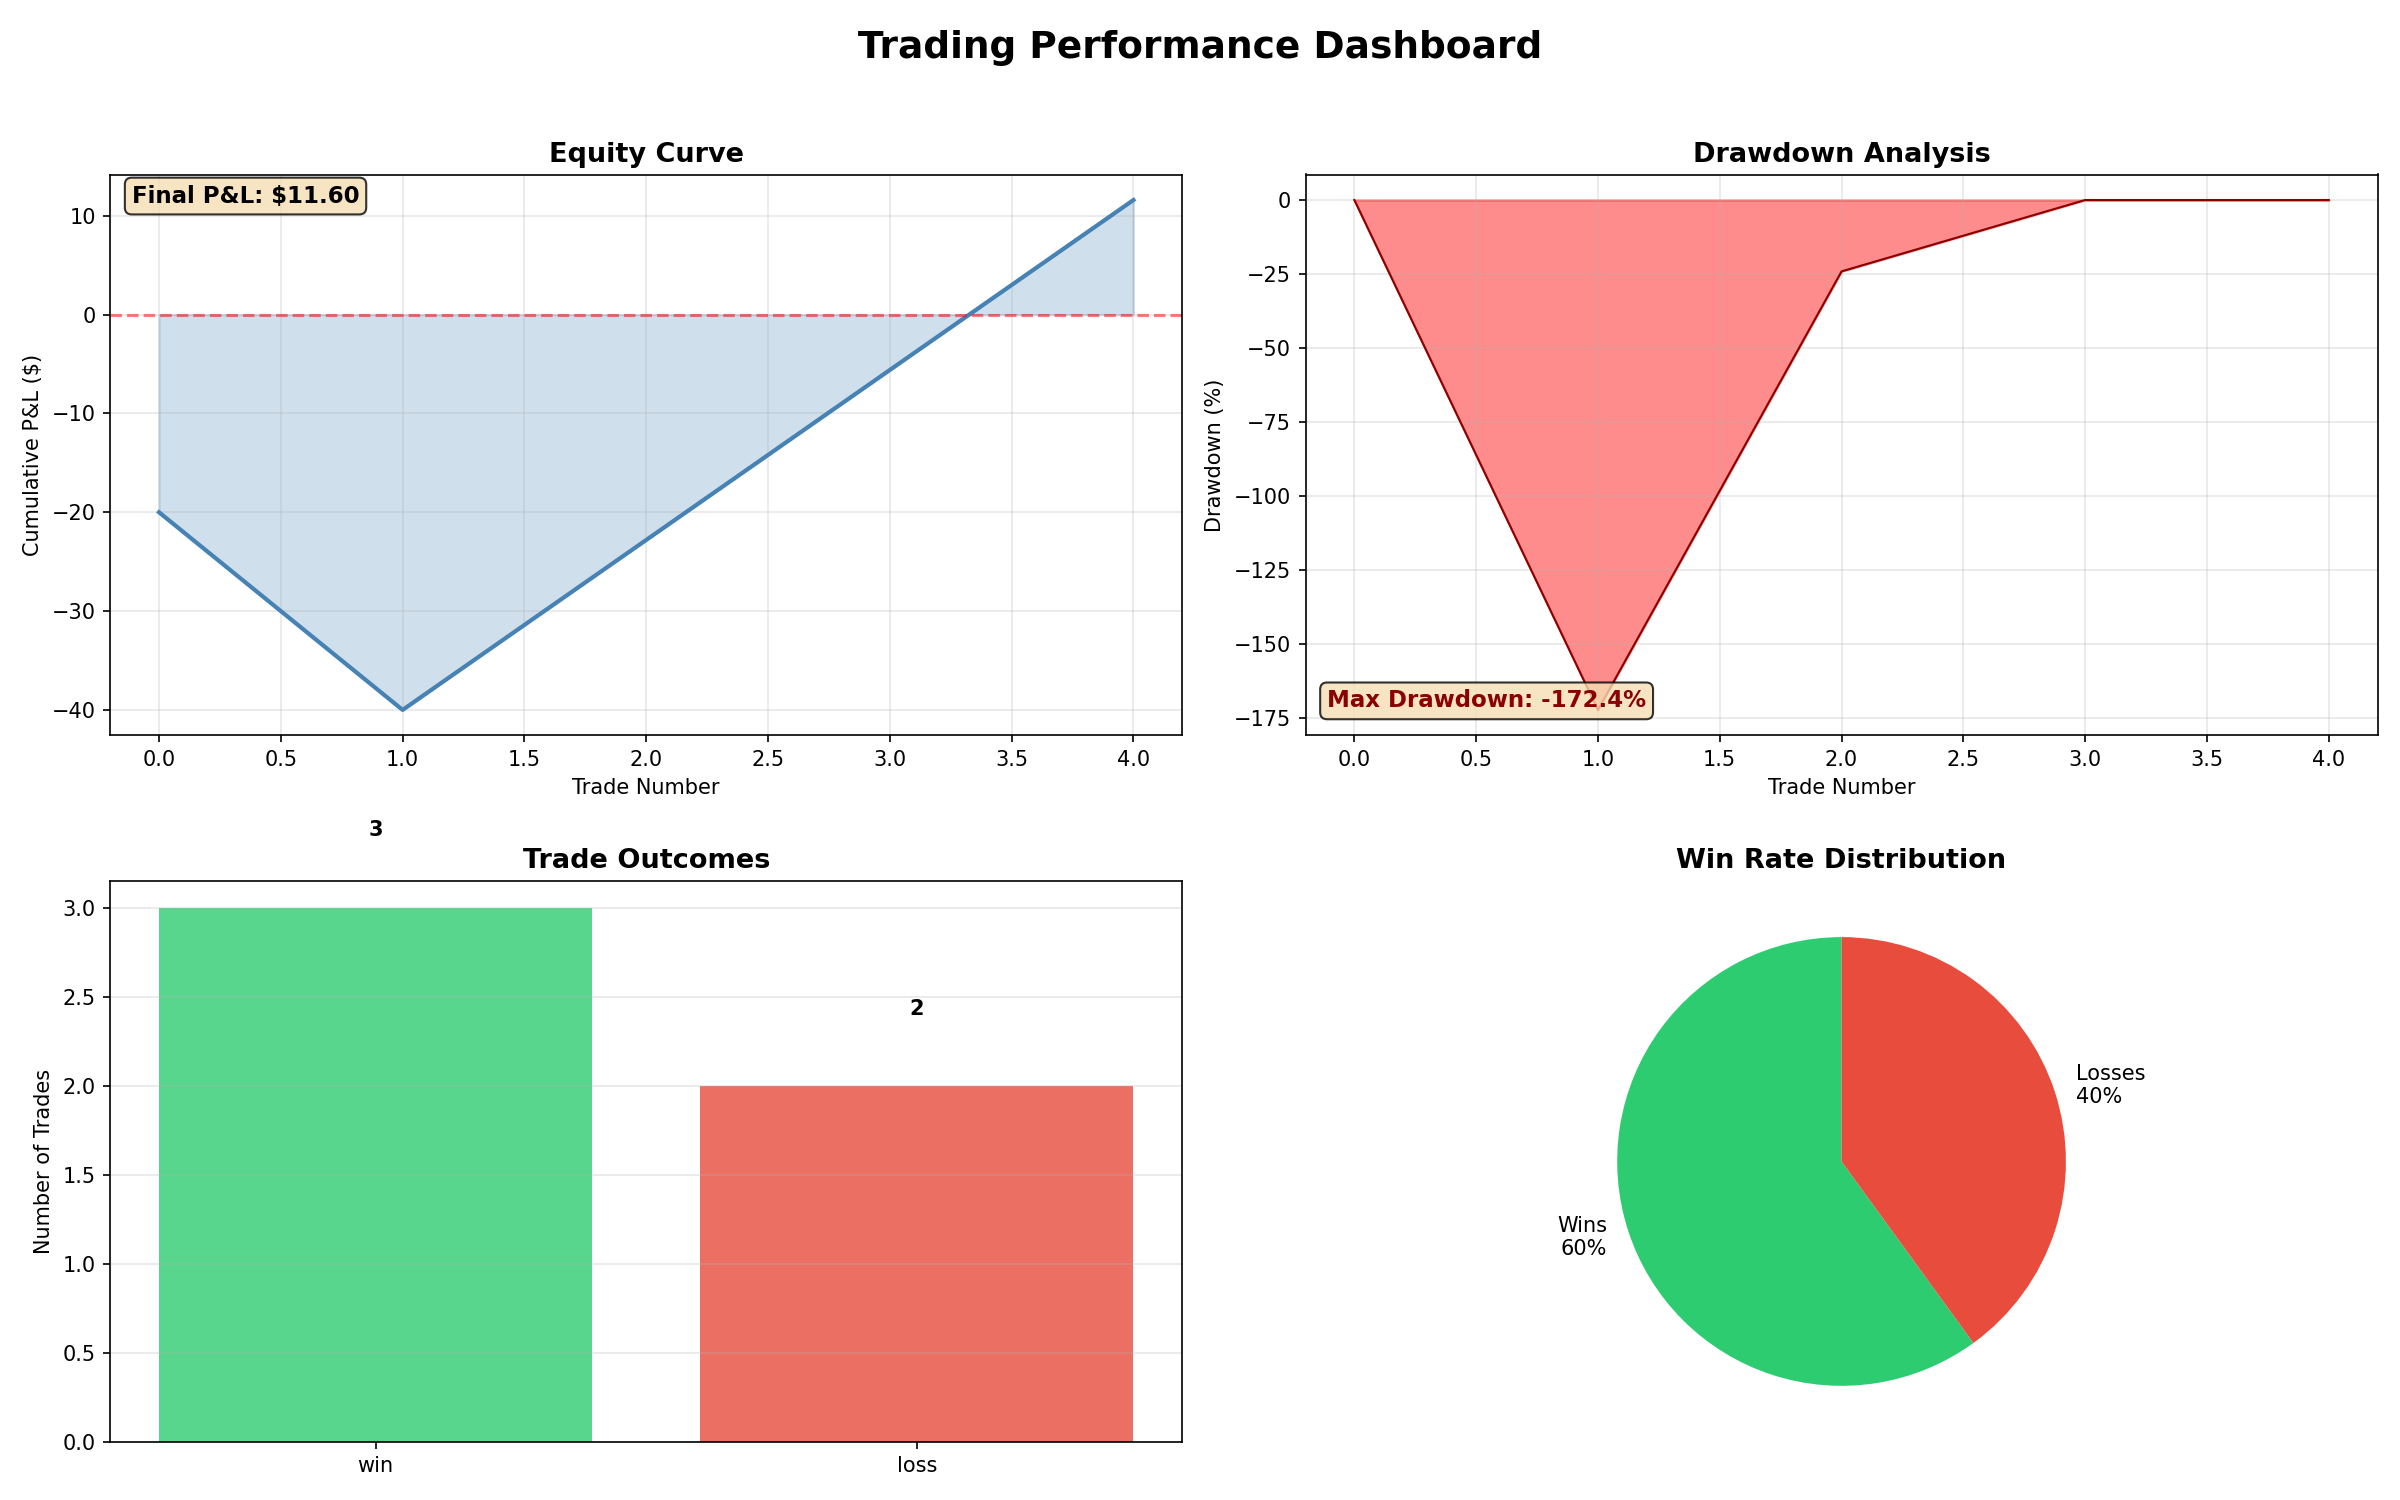
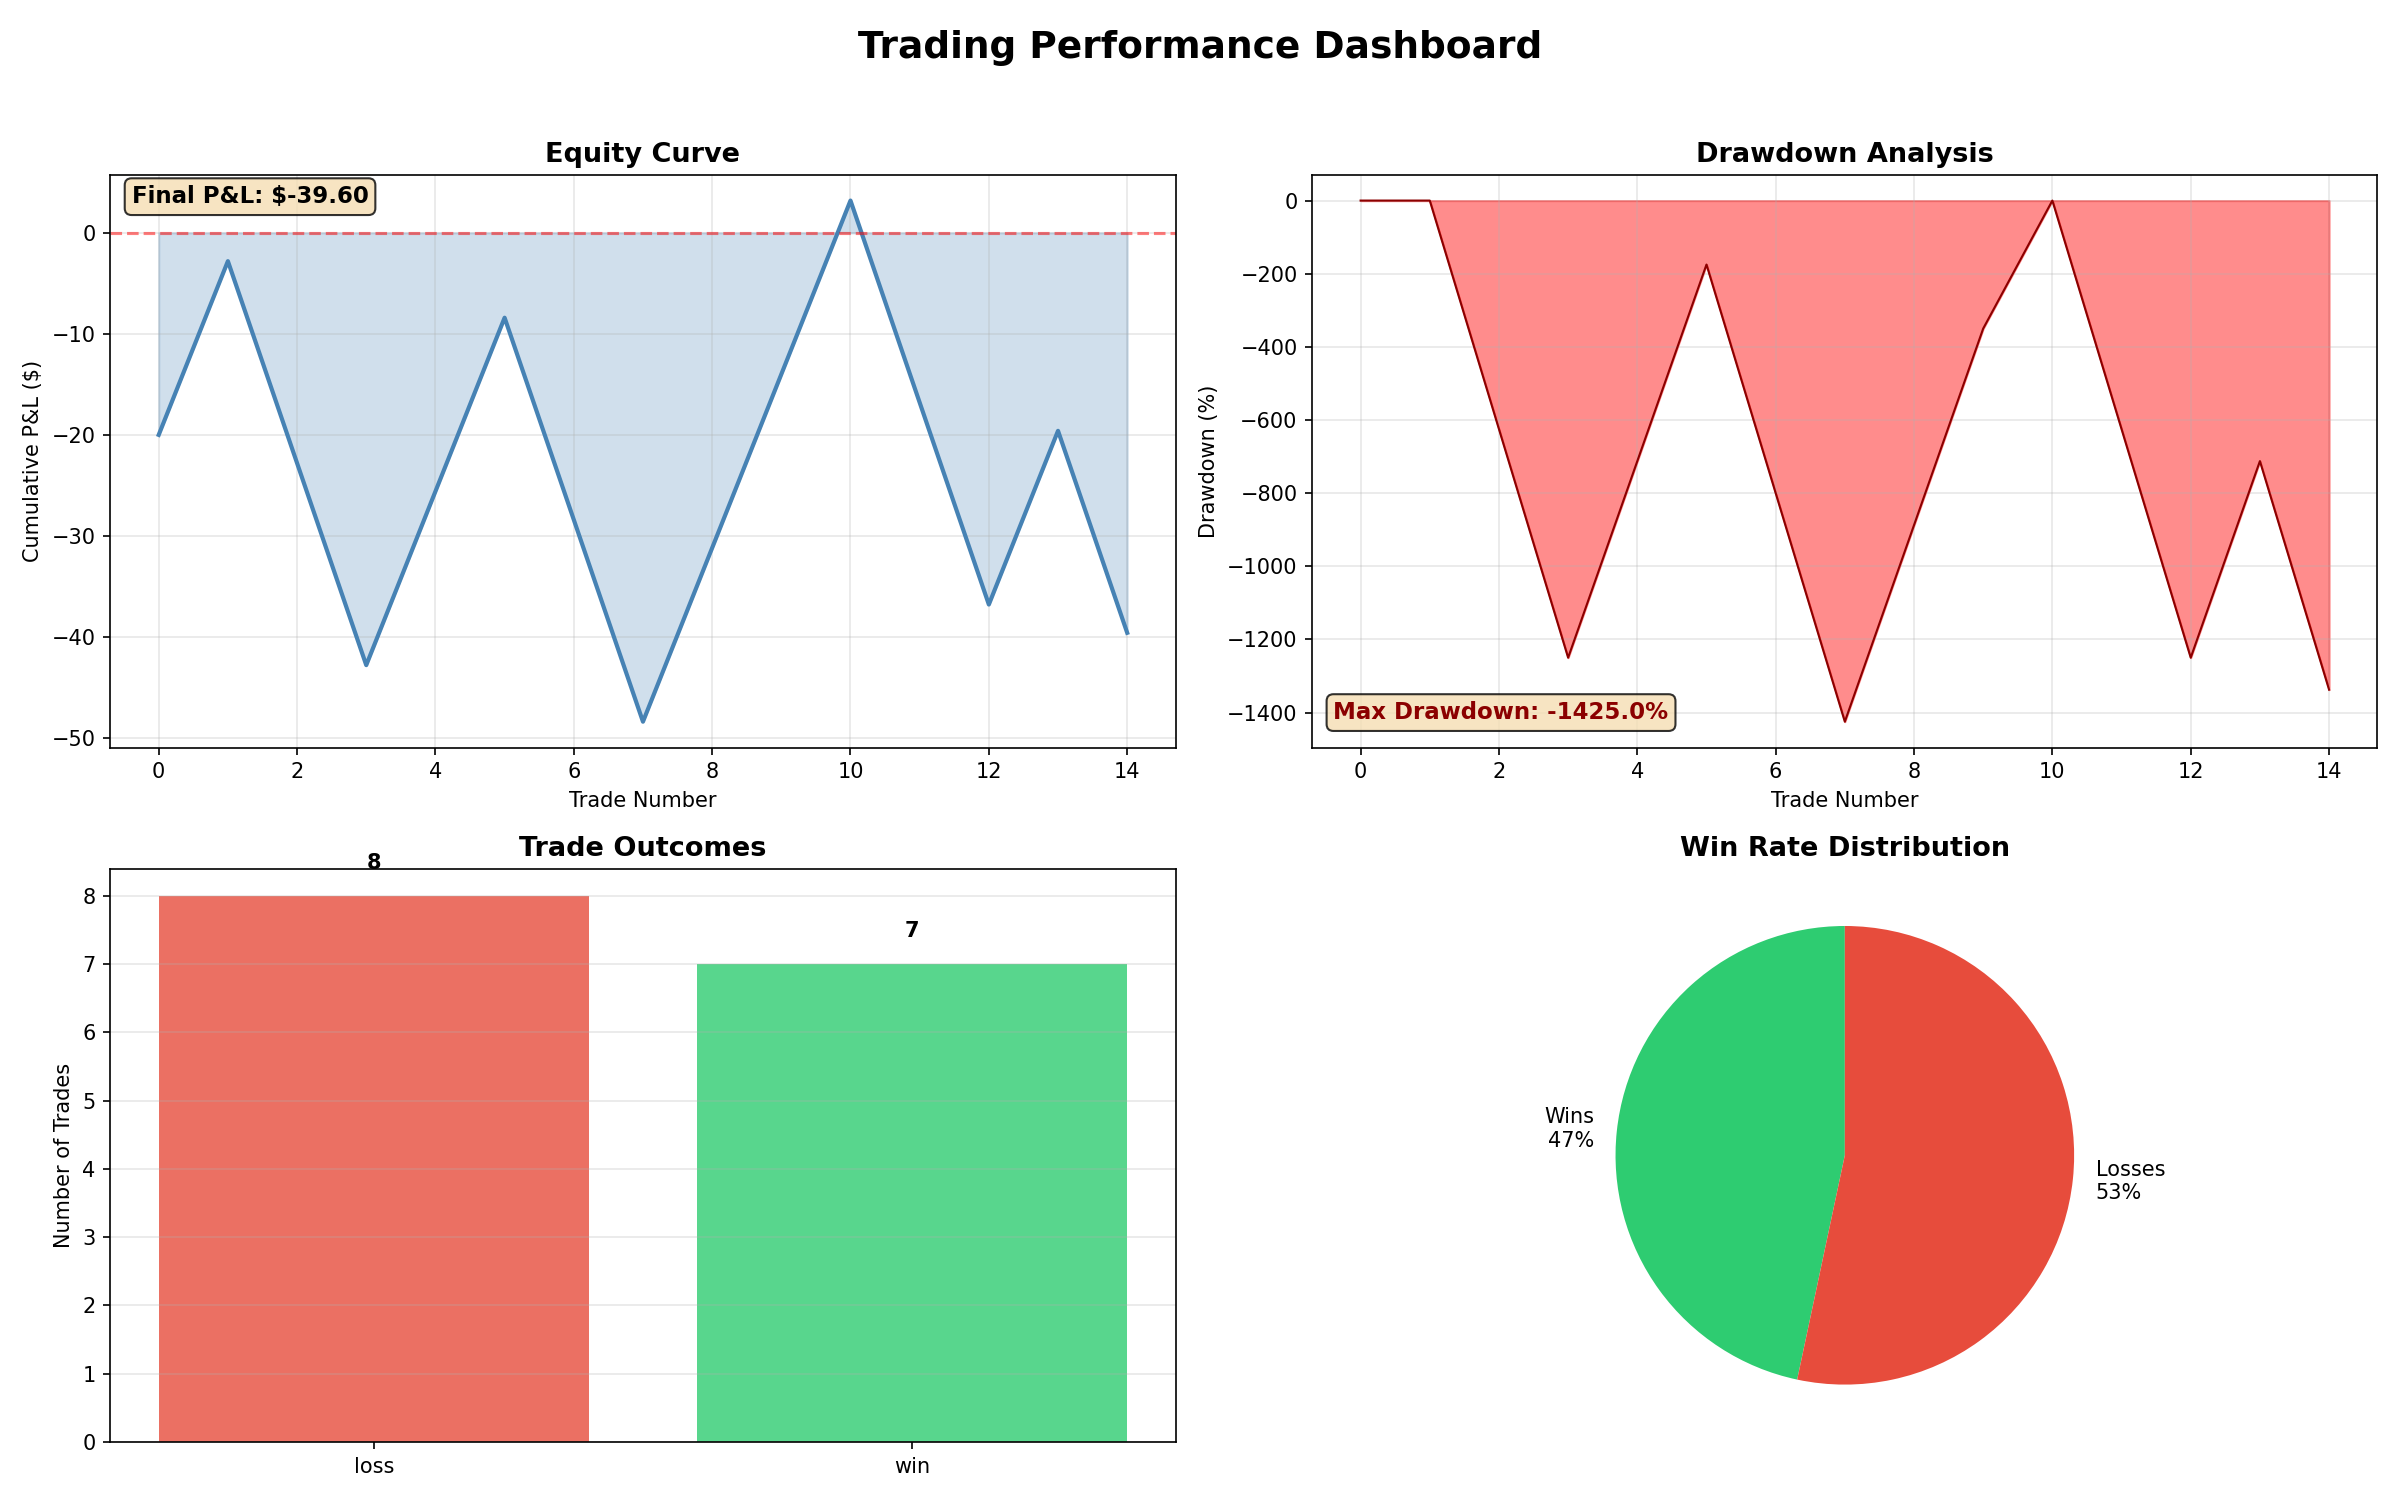
Adustments on trades

diff --git a/bot.py b/bot.py
@@ -31,22 +31,45 @@ def generate_signal_from_live_candle(candle) -> Direction:
     - Momentum (size of latest candle body vs average)
     - Rejection patterns (long wicks = potential reversal)
     
+    NEW FILTERS:
+    - Ranging-market detection (skip choppy/alternating candles)
+    - Higher-timeframe trend confirmation (5-min must agree with 1-min)
+    
     Returns Direction.CALL, Direction.PUT, or Direction.INDECISION.
+    Also sets _bot._last_signal_strength to 'STRONG' or 'CONFIRMED'.
     """
     cm = _bot.candle_manager if _bot else None
+    _bot._last_signal_strength = None
     
     if cm is None:
         if candle.close > candle.open: return Direction.CALL
         elif candle.close < candle.open: return Direction.PUT
         return Direction.INDECISION
     
-    candles = cm.get_candles(_bot.config.asset, 60, count=3)
+    candles_1m = cm.get_candles(_bot.config.asset, 60, count=8)
     
-    if len(candles) < 3:
-        logger.info(f"📊 Building history ({len(candles)}/3 candles)")
+    if len(candles_1m) < 5:
+        logger.info(f"📊 Building history ({len(candles_1m)}/5 candles)")
         return Direction.CALL if candle.close > candle.open else Direction.PUT if candle.close < candle.open else Direction.INDECISION
     
-    c1, c2, c3 = candles[-3], candles[-2], candles[-1]
+    # ─── FILTER 1: Ranging-market detection ──────────────────────────
+    # Check if the last 5 candles are alternating direction (choppy market)
+    last5 = candles_1m[-5:]
+    dirs_5 = [1 if c.close > c.open else -1 for c in last5]
+    flips = sum(1 for i in range(1, len(dirs_5)) if dirs_5[i] != dirs_5[i-1])
+    if flips >= 4:
+        logger.info(f"⏭️  SKIP | Choppy market ({flips} flips in 5 candles)")
+        return Direction.INDECISION
+    
+    # ─── FILTER 2: Higher-timeframe trend confirmation ───────────────
+    # Get 5-minute candles to confirm the broader trend
+    candles_5m = cm.get_candles(_bot.config.asset, 300, count=2)
+    htf_trend = 0  # 0=neutral, 1=bullish, -1=bearish
+    if len(candles_5m) >= 2:
+        last_5m = candles_5m[-1]
+        htf_trend = 1 if last_5m.close > last_5m.open else -1 if last_5m.close < last_5m.open else 0
+    
+    c1, c2, c3 = candles_1m[-3], candles_1m[-2], candles_1m[-1]
     
     def body(c):    return abs(c.close - c.open)
     def dir_sign(c): return 1 if c.close > c.open else -1 if c.close < c.open else 0
@@ -60,23 +83,39 @@ def generate_signal_from_live_candle(candle) -> Direction:
     rejection_up = upper_w(c3) > body(c3) * 0.8 and d3 <= 0
     rejection_down = lower_w(c3) > body(c3) * 0.8 and d3 >= 0
     
-    logger.info(f"📊 Trend={trend:+d} | Mom={momentum:.1f}x | Body={body(c3):.6f} | U-Wick={upper_w(c3):.6f} | L-Wick={lower_w(c3):.6f}")
+    logger.info(f"📊 Trend={trend:+d} | Mom={momentum:.1f}x | Body={body(c3):.6f} | U-Wick={upper_w(c3):.6f} | L-Wick={lower_w(c3):.6f} | HTF={htf_trend:+d}")
     
-    # ─── Strong trend + momentum + no rejection ───
+    # ─── Strong trend + momentum + no rejection + HTF agrees ───
     if trend >= 2 and momentum >= 0.5 and not rejection_up:
-        logger.info("🟢 STRONG CALL")
-        return Direction.CALL
+        if htf_trend >= 0:  # 5-min is bullish or neutral
+            logger.info("🟢 STRONG CALL")
+            _bot._last_signal_strength = 'STRONG'
+            return Direction.CALL
+        else:
+            logger.info(f"⏭️  SKIP | STRONG CALL rejected — HTF bearish ({htf_trend:+d})")
     if trend <= -2 and momentum >= 0.5 and not rejection_down:
-        logger.info("🔴 STRONG PUT")
-        return Direction.PUT
+        if htf_trend <= 0:  # 5-min is bearish or neutral
+            logger.info("🔴 STRONG PUT")
+            _bot._last_signal_strength = 'STRONG'
+            return Direction.PUT
+        else:
+            logger.info(f"⏭️  SKIP | STRONG PUT rejected — HTF bullish ({htf_trend:+d})")
     
     # ─── Confirmed trend (all 3 same direction) ───
     if trend == 3 and momentum >= 0.3:
-        logger.info("🟢 CONFIRMED CALL (3 green)")
-        return Direction.CALL
+        if htf_trend >= 0:
+            logger.info("🟢 CONFIRMED CALL (3 green)")
+            _bot._last_signal_strength = 'CONFIRMED'
+            return Direction.CALL
+        else:
+            logger.info(f"⏭️  SKIP | CONFIRMED CALL rejected — HTF bearish ({htf_trend:+d})")
     if trend == -3 and momentum >= 0.3:
-        logger.info("🔴 CONFIRMED PUT (3 red)")
-        return Direction.PUT
+        if htf_trend <= 0:
+            logger.info("🔴 CONFIRMED PUT (3 red)")
+            _bot._last_signal_strength = 'CONFIRMED'
+            return Direction.PUT
+        else:
+            logger.info(f"⏭️  SKIP | CONFIRMED PUT rejected — HTF bullish ({htf_trend:+d})")
     
     # ─── Rejection alert ───
     if rejection_up:
@@ -105,6 +144,7 @@ class TradingBot:
         self._last_trade_candle_id = None     # Track last candle we traded on
         self._last_trade_time = 0             # Timestamp of last trade
         self._trading_active = False          # Lock: only 1 trade at a time
+        self._last_signal_strength = None     # 'STRONG' or 'CONFIRMED' for position sizing
         
         # ─── Ensure clean shutdown on ANY exit ───
         atexit.register(self._force_shutdown)
@@ -212,6 +252,14 @@ class TradingBot:
 
     def execute_trade(self, direction: Direction) -> Optional[Dict]:
         position_size  = self.risk_manager.calculate_position_size()
+        
+        # Scale position by signal strength: CONFIRMED = 60% of full size
+        if self._last_signal_strength == 'CONFIRMED':
+            scaled = round(position_size * 0.6, 2)
+            scaled = max(scaled, self.config.min_trade_amount)  # respect min
+            logger.info(f"💰 Scaled position: ${position_size} → ${scaled} (CONFIRMED signal)")
+            position_size = scaled
+        
         balance_before = self.risk_manager.current_balance
 
         # Place the trade — don't block waiting for confirmation

diff --git a/tradingconfig.py b/tradingconfig.py
@@ -17,14 +17,14 @@ class TradingConfig:
     # ═══════════════════════════════════════════════════════════════════════
     #  TRADING SETTINGS
     # ═══════════════════════════════════════════════════════════════════════
-    asset: str = "USDNGN-OTC"                  # Trading asset
-    expiry_minutes: int = 2                      # Trade expiry (1, 2, 5, 10, 15 minutes)
+    asset: str = "EURUSD"                       # Trading asset (most liquid forex pair)
+    expiry_minutes: int = 5                      # Trade expiry (1, 2, 5, 10, 15 minutes)
     option_type: str = OptionType.BINARY_OPTION  # 'binary' or 'digital'
     
     # ═══════════════════════════════════════════════════════════════════════
     #  TIMING SETTINGS
     # ═══════════════════════════════════════════════════════════════════════
-    duration_minutes: int = 40                   # How long to run (till ~4pm)
+    duration_minutes: int = 540                   # Run for 9 hours (08:00-17:00 UTC full session)
     trade_seconds: Tuple[int, ...] = (0, 1, 2)   # Seconds of minute to trade
     
     # ═══════════════════════════════════════════════════════════════════════
@@ -39,20 +39,20 @@ class TradingConfig:
     # ═══════════════════════════════════════════════════════════════════════
     risk_per_trade: float = 0.2                  # % of balance to risk per trade
     min_trade_amount: float = 5.0                # Minimum trade size
-    max_trade_amount: float = 45.0              # Maximum trade size
+    max_trade_amount: float = 40.0              # Maximum trade size
     
     # ═══════════════════════════════════════════════════════════════════════
     #  RISK MANAGEMENT - PROTECTION FEATURES
     # ═══════════════════════════════════════════════════════════════════════
-    max_consecutive_losses: int = 7              # Pause after N losses
+    max_consecutive_losses: int = 3              # Pause after N losses
     cooloff_minutes: int = 5                     # How long to pause after losses
     max_drawdown_percent: float = 10.0           # Stop if balance drops X% from peak
     
     # ═══════════════════════════════════════════════════════════════════════
     #  RISK MANAGEMENT - TRADING HOURS
     # ═══════════════════════════════════════════════════════════════════════
-    trading_start_hour: int = 7                  # 24-hour format (7 AM UTC = European open)
-    trading_end_hour: int = 16                   # 24-hour format (4 PM UTC = US close)
+    trading_start_hour: int = 8                  # 24-hour format (8 AM UTC = London morning)
+    trading_end_hour: int = 17                   # 24-hour format (5 PM UTC = NY afternoon)
     
     def __post_init__(self):
         """Validate all configuration settings"""